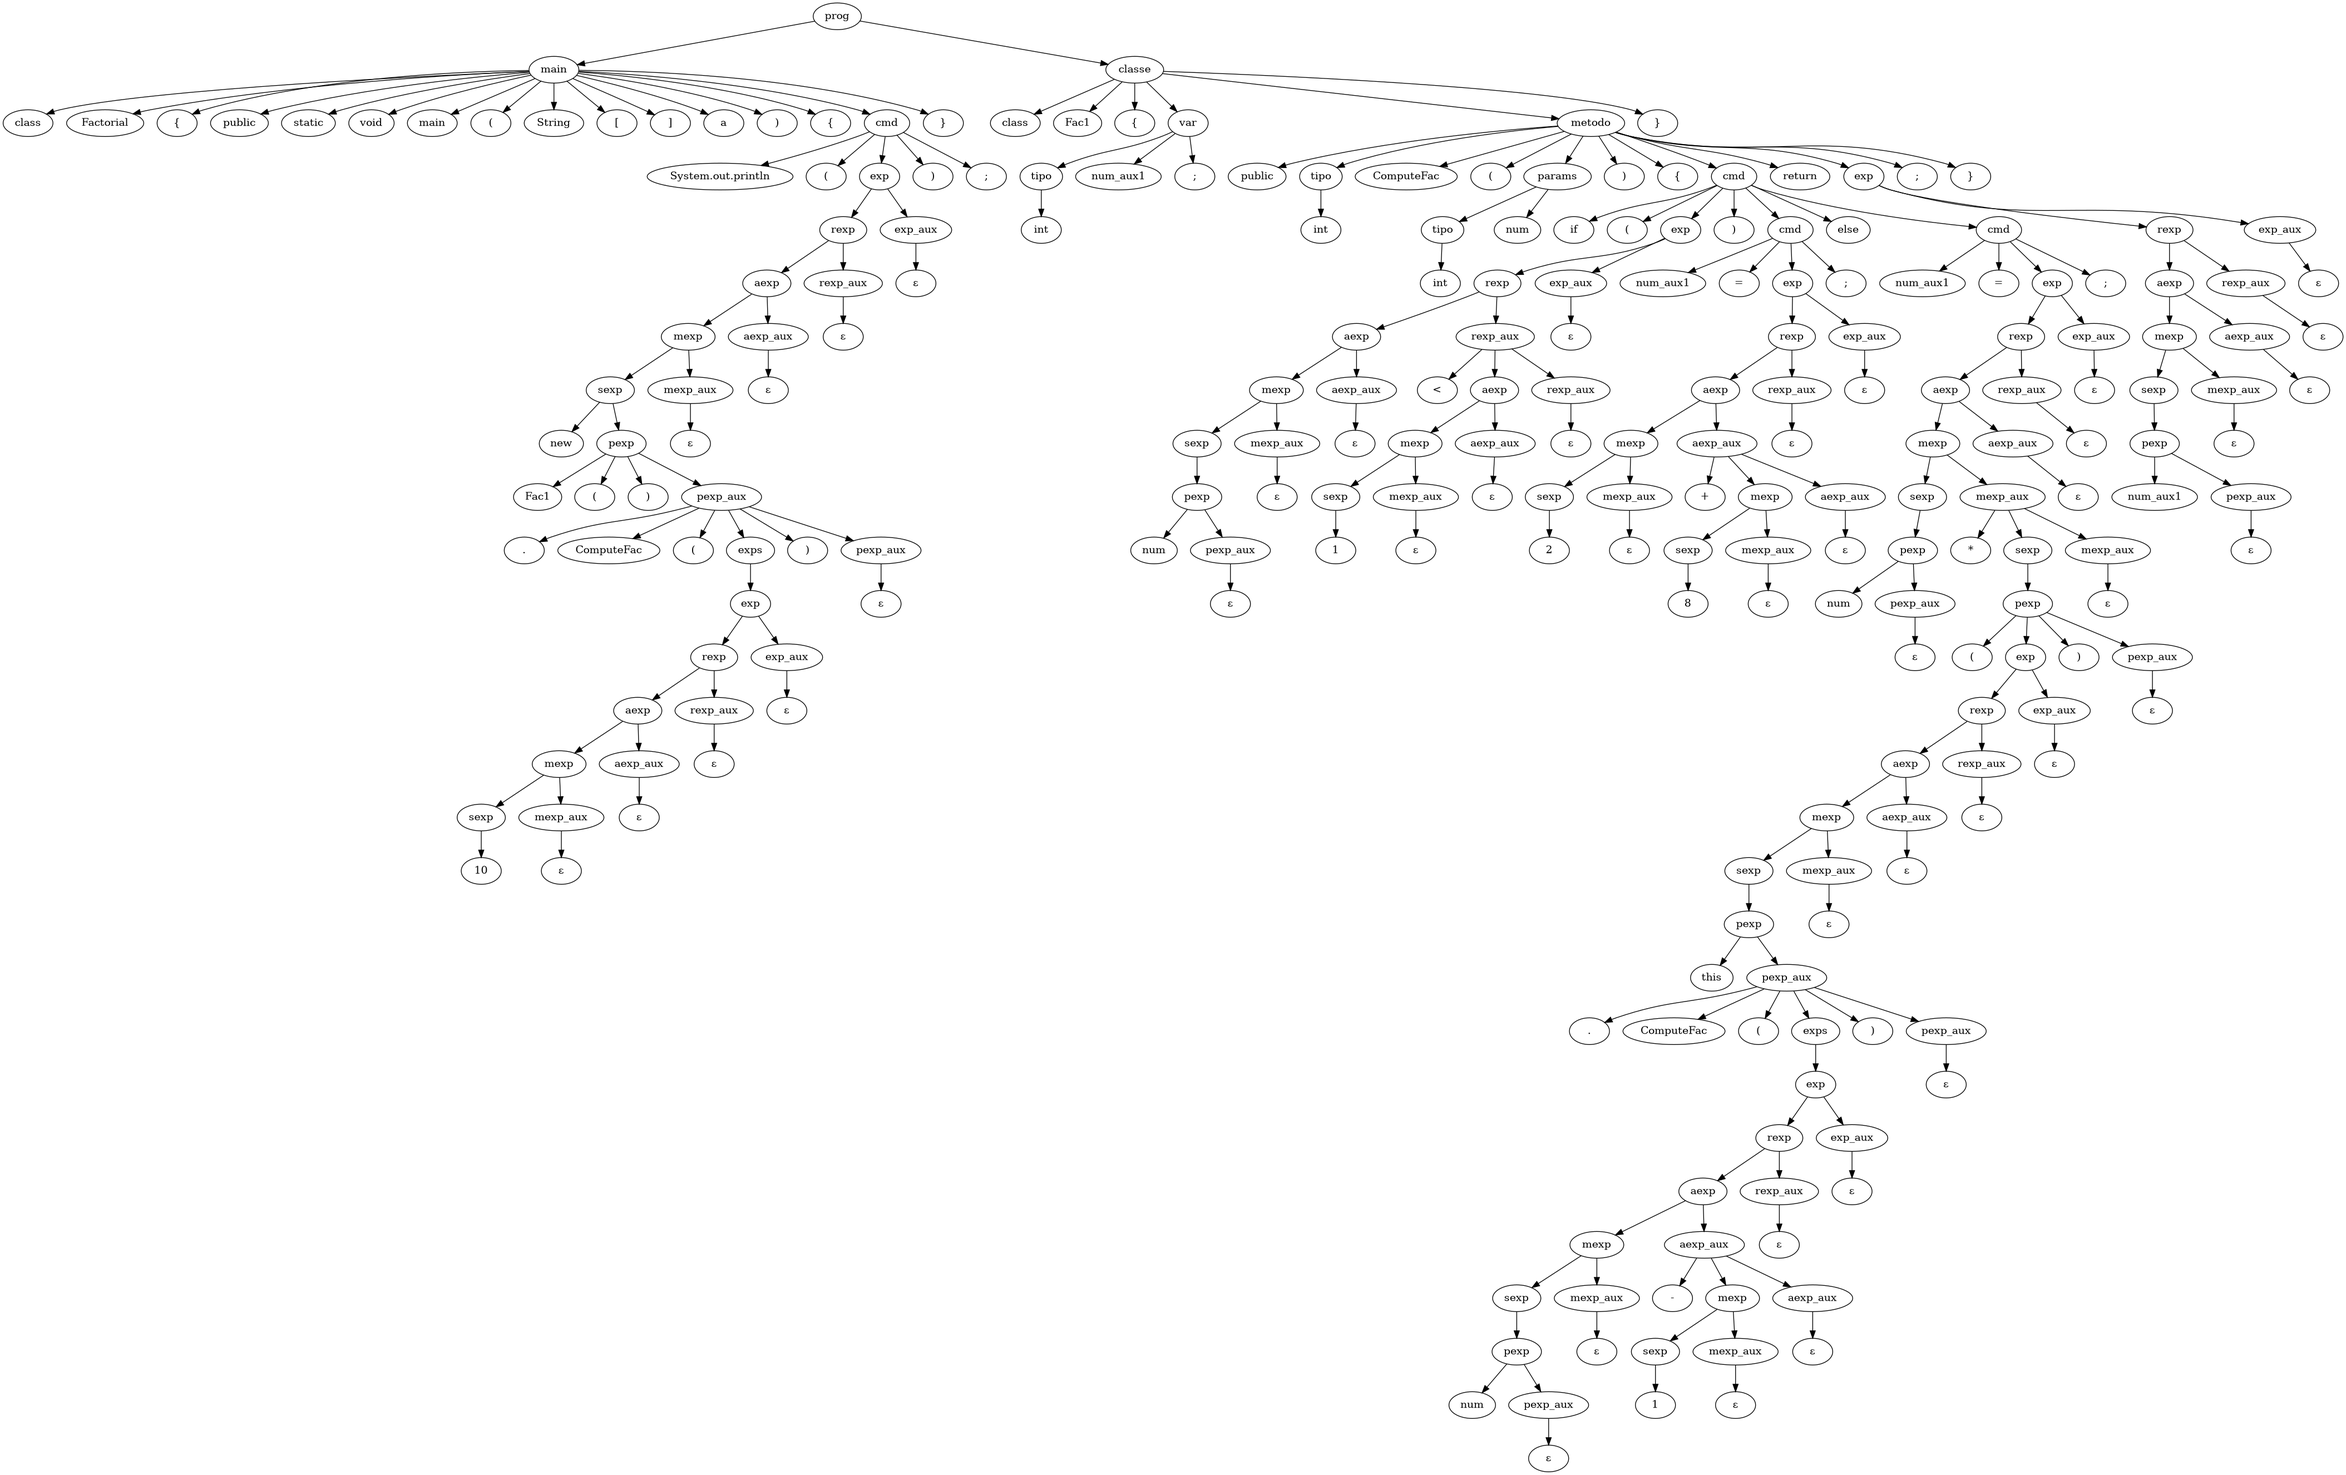
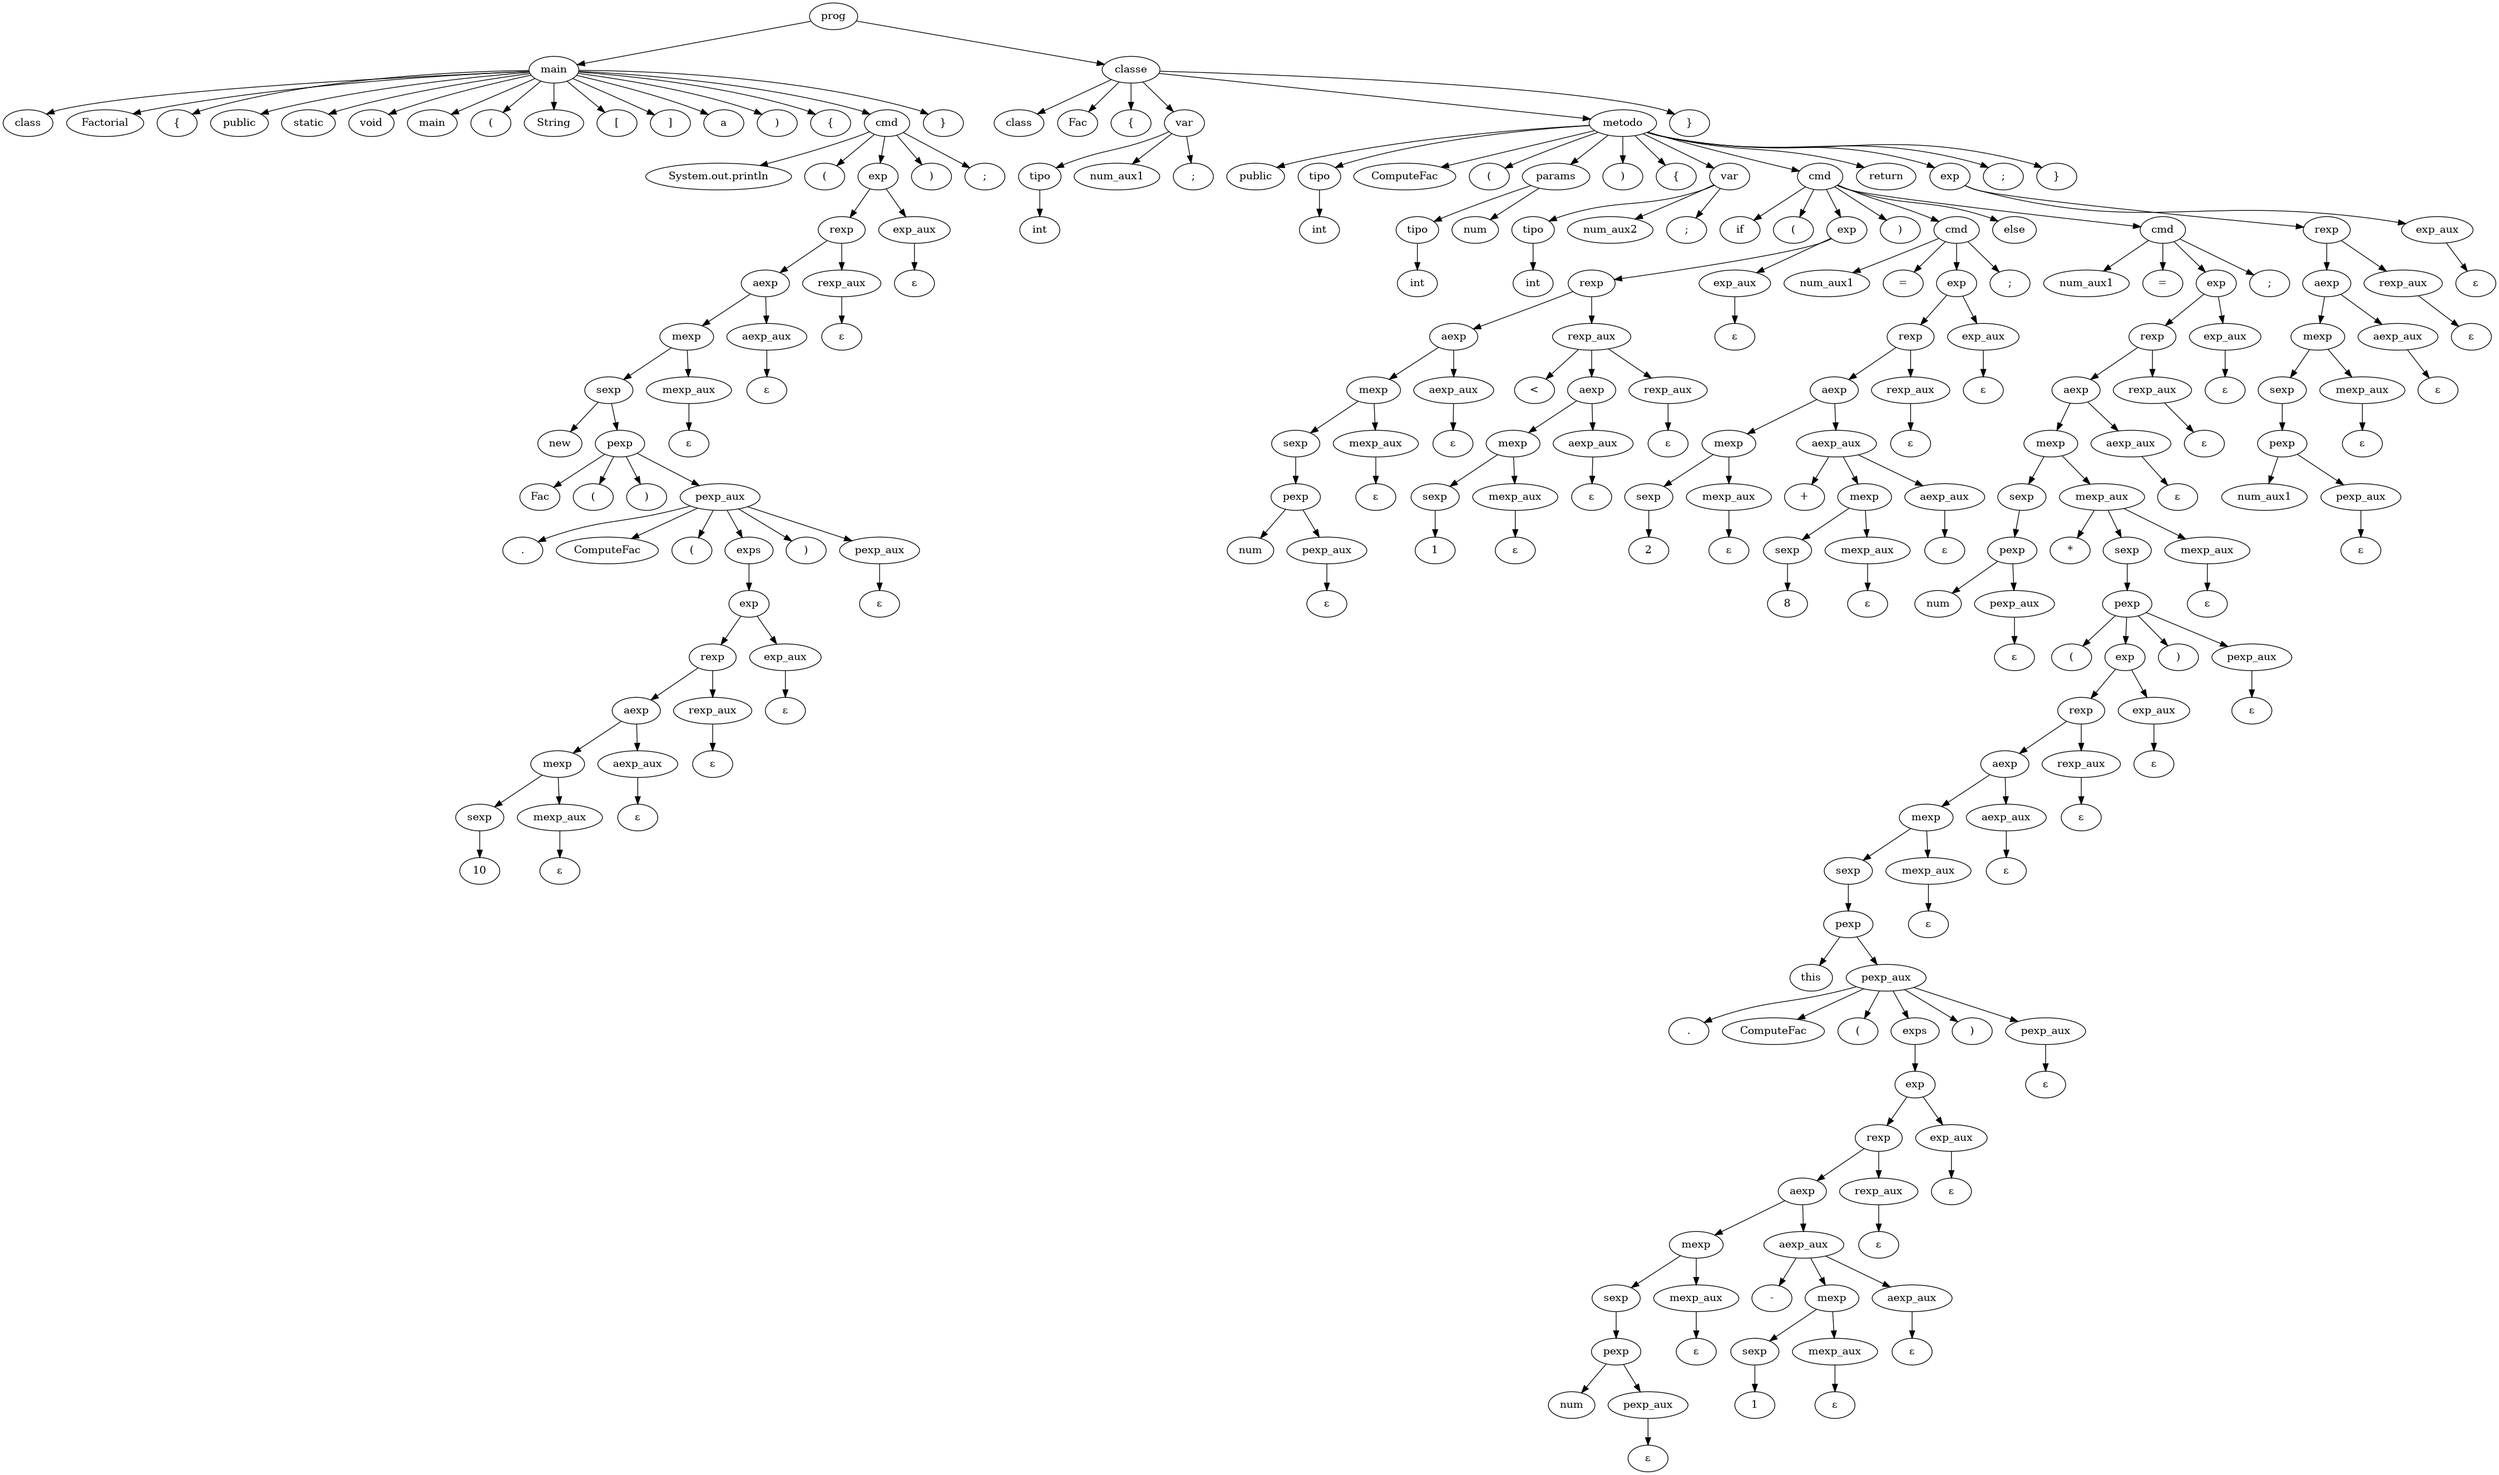
a

diff --git a/classes/symtable.py b/classes/symtable.py
@@ -2,6 +2,7 @@ class SymbolTable:
     def __init__(self):
         # Armazena os símbolos em diferentes escopos
         self.scopes = [{}]
+        self.errors = []
     
     def enter_scope(self):
         # Adiciona um novo escopo (e.g., ao entrar em uma classe ou método)
@@ -19,6 +20,7 @@ class SymbolTable:
 
         current_scope = self.scopes[-1]
         if name in current_scope:
+            self.errors.append(f"Símbolo '{name}' já declarado no escopo atual.")
             raise ValueError(f"Símbolo '{name}' já declarado no escopo atual.")
         current_scope[name] = {"type": symbol_type, "qt_info": qt_info, "info": additional_info}
     
@@ -27,6 +29,7 @@ class SymbolTable:
         for scope in reversed(self.scopes):
             if name in scope:
                 return scope[name]
+        self.errors.append(f"Símbolo '{name}' não encontrado.")
         raise ValueError(f"Símbolo '{name}' não encontrado.")
 
     def find_symbol_class(self, name):

diff --git a/minijava/ex1.java b/minijava/ex1.java
@@ -1,12 +1,13 @@
 class Factorial{
     public static void main(String[] a){
-        System.out.println(new Fac1().ComputeFac(10));
+        System.out.println(new Fac().ComputeFac(10));
     }
 }
 
-class Fac1 {
+class Fac {
     int num_aux1;
     public int ComputeFac(int num){
+        int num_aux2;
         if (num < 1)
             num_aux1 = 2 + 8;
         else
